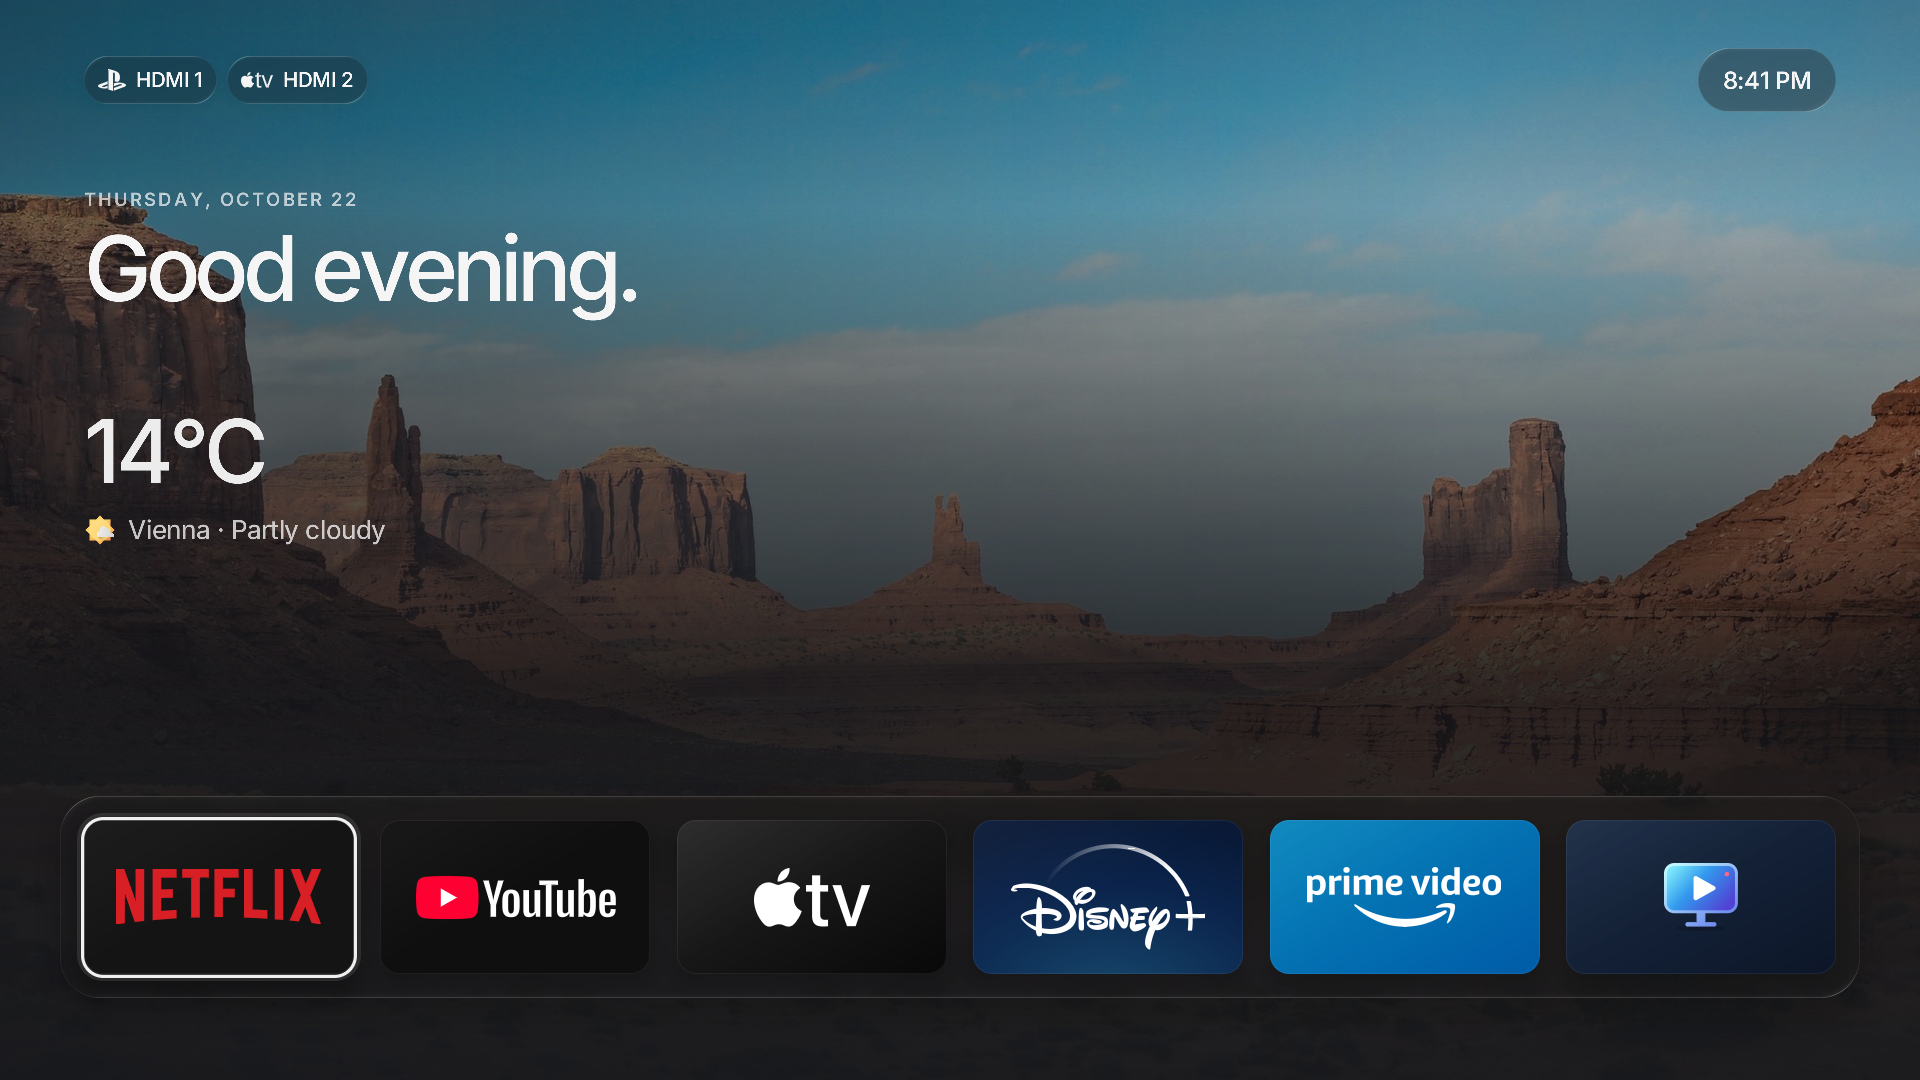
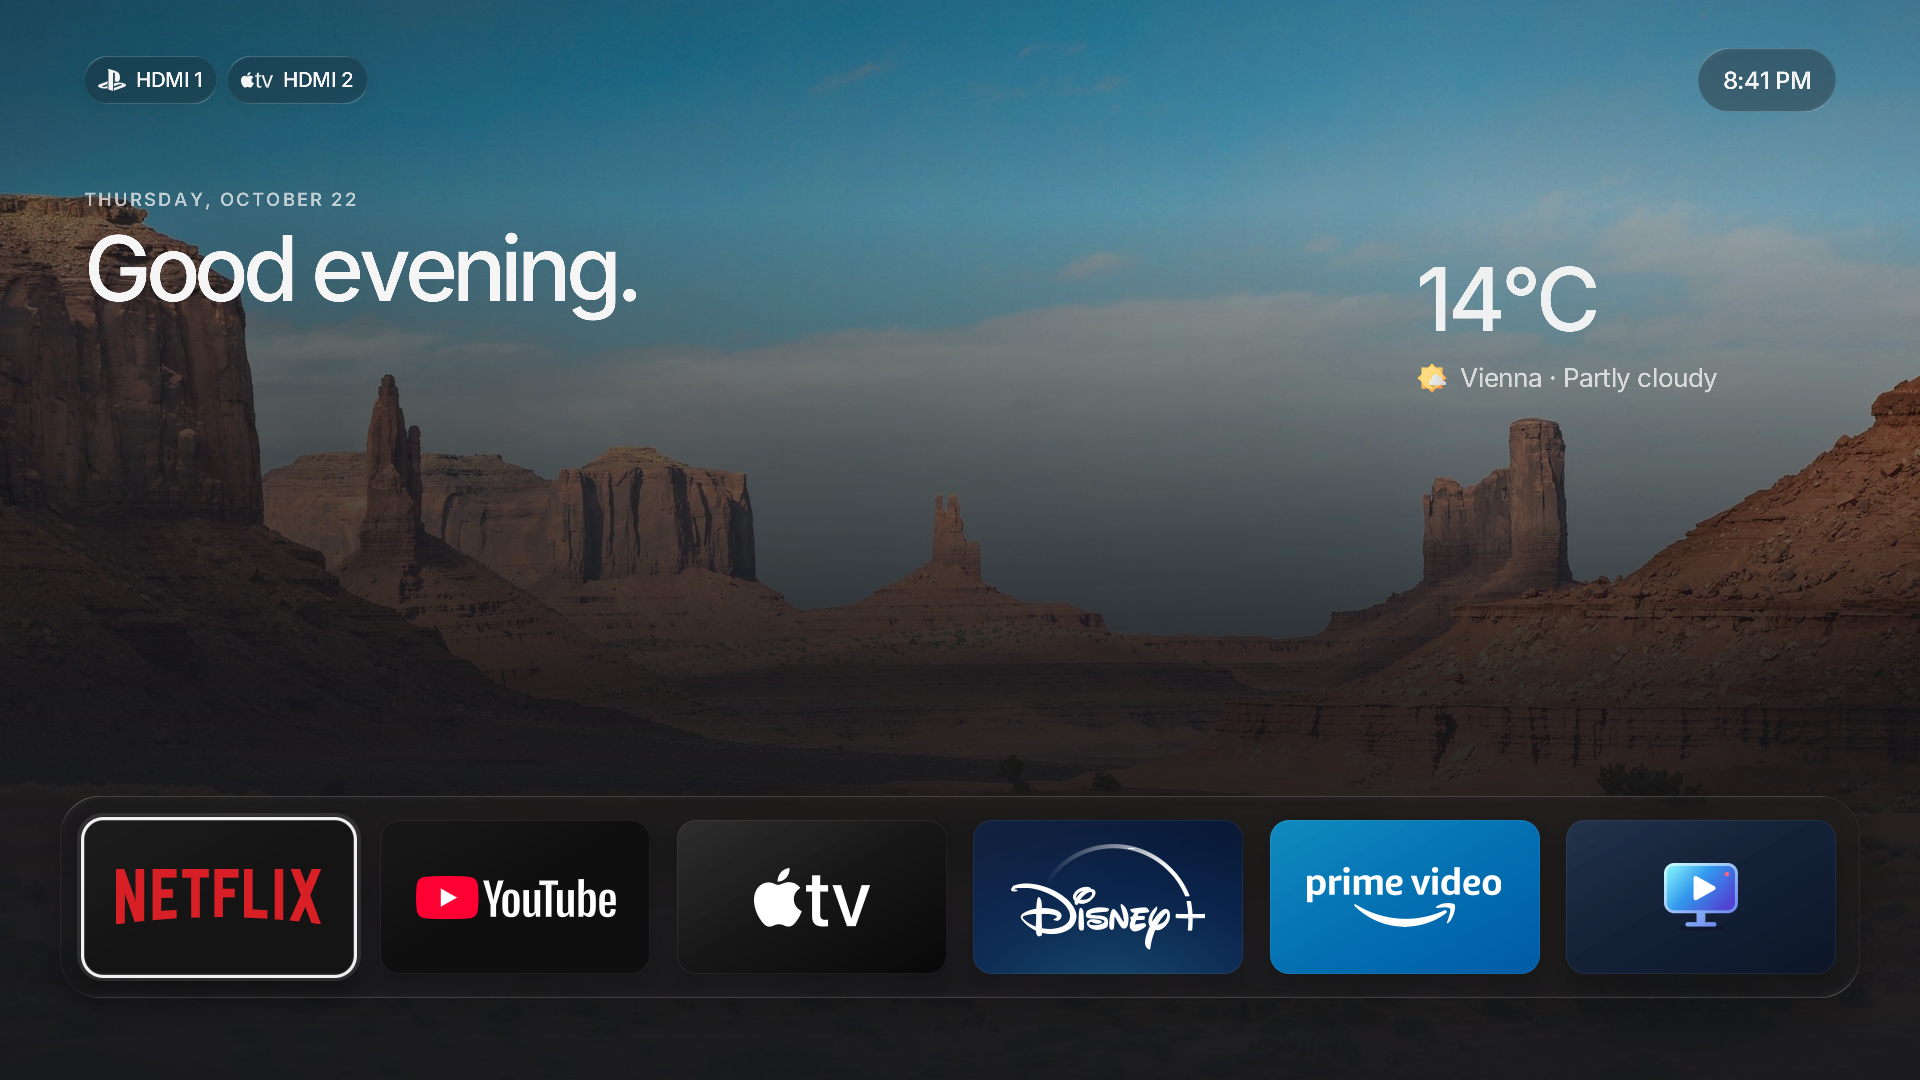
feat(widgets): default greeting left and weather right

Changed region(s): [[0.0312, 0.3667, 0.1875, 0.5194], [0.7188, 0.2444, 0.8438, 0.3056], [0.7188, 0.3361, 0.9062, 0.3667]]

diff --git a/src/glass-home-tests.rs b/src/glass-home-tests.rs
@@ -183,8 +183,8 @@ fn widget_manager_grid_opens_context_menu_from_every_occupied_cell() {
     for (cell, widget) in [
         (0, HomeWidget::Greeting),
         (1, HomeWidget::Greeting),
-        (4, HomeWidget::Weather),
-        (8, HomeWidget::Weather),
+        (3, HomeWidget::Weather),
+        (7, HomeWidget::Weather),
     ] {
         let control = rendered
             .controls
@@ -222,7 +222,7 @@ fn widget_add_is_atomic_cancellable_and_rejects_invalid_placements() {
     let mut state = ready();
     state.open(2);
     state.section = crate::state::WIDGETS_SECTION;
-    state.focus = Target::WidgetCell(4);
+    state.focus = Target::WidgetCell(3);
     state.activate();
     state.focus = Target::RemoveWidget(HomeWidget::Weather);
     assert_eq!(state.activate(), vec![Effect::Save]);
@@ -278,7 +278,7 @@ fn widget_configuration_has_no_visibility_or_position_rows() {
     let mut state = ready();
     state.open(2);
     state.section = crate::state::WIDGETS_SECTION;
-    for (cell, expected) in [(0, Subpage::Greeting), (4, Subpage::Weather)] {
+    for (cell, expected) in [(0, Subpage::Greeting), (3, Subpage::Weather)] {
         state.focus = Target::WidgetCell(cell);
         state.activate();
         state.activate();
@@ -317,22 +317,22 @@ fn widget_position_browsing_cancels_and_valid_selection_saves() {
     state.section = crate::state::WIDGETS_SECTION;
     state.focus = Target::MoveWidget(HomeWidget::Weather);
     state.activate();
-    assert_eq!(state.focus, Target::Choice(4));
-    state.direction(Direction::Right, &scene(&state).controls);
-    assert_eq!(state.focus, Target::Choice(5));
+    assert_eq!(state.focus, Target::Choice(3));
+    state.direction(Direction::Left, &scene(&state).controls);
+    assert_eq!(state.focus, Target::Choice(2));
     assert_eq!(
         state.preferences.weather_position,
-        WidgetPosition { column: 0, row: 1 }
+        WidgetPosition { column: 3, row: 0 }
     );
     state.back();
-    assert_eq!(state.focus, Target::WidgetCell(4));
+    assert_eq!(state.focus, Target::WidgetCell(3));
     state.focus = Target::MoveWidget(HomeWidget::Weather);
     state.activate();
-    state.direction(Direction::Right, &scene(&state).controls);
+    state.direction(Direction::Left, &scene(&state).controls);
     assert_eq!(state.activate(), vec![Effect::Save]);
     assert_eq!(
         state.preferences.weather_position,
-        WidgetPosition { column: 1, row: 1 }
+        WidgetPosition { column: 2, row: 0 }
     );
     let loaded: Preferences =
         serde_json::from_slice(&serde_json::to_vec(&state.preferences).unwrap()).unwrap();
@@ -347,7 +347,7 @@ fn widget_position_picker_blocks_overlaps_and_out_of_bounds_for_remote_and_point
     state.section = crate::state::WIDGETS_SECTION;
     state.focus = Target::MoveWidget(HomeWidget::Greeting);
     state.activate();
-    for cell in [3, 4, 7, 8, 11, 15] {
+    for cell in [2, 3, 6, 7, 11, 15] {
         state.focus = Target::Choice(cell);
         assert!(state.activate().is_empty());
         assert_eq!(
@@ -408,11 +408,11 @@ fn four_by_four_widget_navigation_reaches_last_row_and_column_without_wrapping()
     );
     state.focus = Target::MoveWidget(HomeWidget::Weather);
     state.activate();
-    state.pointer_focus(Target::Choice(3));
+    state.pointer_focus(Target::Choice(4));
     assert_eq!(state.activate(), vec![Effect::Save]);
     assert_eq!(
         state.preferences.weather_position,
-        WidgetPosition { column: 3, row: 0 }
+        WidgetPosition { column: 0, row: 1 }
     );
     assert!(WidgetPosition::from_cell(16).is_none());
 }
@@ -429,7 +429,7 @@ fn widget_positions_default_to_requested_spans_and_sanitize_safely() {
     );
     assert_eq!(
         preferences.weather_position,
-        WidgetPosition { column: 0, row: 1 }
+        WidgetPosition { column: 3, row: 0 }
     );
     assert!(preferences.weather_visible());
     for greeting in 0..crate::model::HOME_GRID_CELLS {
@@ -496,6 +496,19 @@ fn combined_greeting_upgrades_separate_date_defaults_and_preserves_custom_positi
     assert_eq!(
         current.weather_position,
         WidgetPosition { column: 0, row: 2 }
+    );
+    let mut previous_default: Preferences = serde_json::from_str(
+        r#"{"greeting_position":{"column":0,"row":0},"weather_position":{"column":0,"row":1}}"#,
+    )
+    .unwrap();
+    previous_default.sanitize();
+    assert_eq!(
+        previous_default.greeting_position,
+        WidgetPosition { column: 0, row: 0 }
+    );
+    assert_eq!(
+        previous_default.weather_position,
+        WidgetPosition { column: 0, row: 1 }
     );
 }
 

diff --git a/src/tests.rs b/src/tests.rs
@@ -1586,7 +1586,9 @@ fn weather_location_keyboard_back_and_sidebar_routes_restore_focus() {
     assert_eq!(state.focus, Target::WidgetAdd);
     state.direction(Direction::Down, &controls(&state));
     assert_eq!(state.focus, Target::WidgetCell(0));
-    state.direction(Direction::Down, &controls(&state));
+    for _ in 0..3 {
+        state.direction(Direction::Right, &controls(&state));
+    }
     state.activate();
     assert_eq!(
         state.focus,
@@ -1606,7 +1608,7 @@ fn weather_location_keyboard_back_and_sidebar_routes_restore_focus() {
     assert_eq!(state.focus, Target::WeatherLocation);
     assert_eq!(state.subpage, Some(crate::state::Subpage::Weather));
     state.back();
-    assert_eq!(state.focus, Target::WidgetCell(4));
+    assert_eq!(state.focus, Target::WidgetCell(3));
     assert!(state.subpage.is_none());
     state.back();
     assert_eq!(state.focus, Target::Sidebar(crate::state::WIDGETS_SECTION));
@@ -1673,7 +1675,7 @@ fn home_weather_setup_returns_through_the_widgets_weather_parent() {
     assert_eq!(state.focus, Target::WeatherLocation);
     state.back();
     assert!(state.subpage.is_none());
-    assert_eq!(state.focus, Target::WidgetCell(4));
+    assert_eq!(state.focus, Target::WidgetCell(3));
 }
 
 #[test]

diff --git a/src/model.rs b/src/model.rs
@@ -285,11 +285,11 @@ impl HomeWidget {
 
     pub fn default_position(self) -> WidgetPosition {
         WidgetPosition {
-            column: 0,
-            row: match self {
+            column: match self {
                 Self::Greeting => 0,
-                Self::Weather => 1,
+                Self::Weather => 3,
             },
+            row: 0,
         }
     }
 }

diff --git a/.changeset/home-widget-grid.md b/.changeset/home-widget-grid.md
@@ -2,7 +2,7 @@
 'lg-luma': minor
 ---
 
-Add a grid-first Home widget manager with app-style Configure, Move and Remove menus, plus Reset to defaults and Add widget pills above the grid. Greeting combines weekday/date and a time-based greeting in two columns and one row, restoring the original typography; Weather spans one column and two rows. By default Greeting sits on row one and Weather spans rows two/three. Preview fixed-size placements with the remote or pointer and reject overlaps or out-of-bounds positions. Removing frees cells while retaining configuration, and adding only saves after confirming placement. Reset restores default widgets and positions without clearing their settings. Configuration no longer has show/hide widget switches. Inputs moves to its own sidebar section below Apps and is not a widget. The app dock is unchanged; date visibility/format remain inside Greeting settings, without a separate Date widget or configurable name.
+Add a grid-first Home widget manager with app-style Configure, Move and Remove menus, plus Reset to defaults and Add widget pills above the grid. Greeting combines weekday/date and a time-based greeting in two columns and one row, restoring the original typography; Weather spans one column and two rows. By default Greeting sits at the top left and Weather at the top right, spanning the first two rows. Saved custom placements are preserved. Preview fixed-size placements with the remote or pointer and reject overlaps or out-of-bounds positions. Removing frees cells while retaining configuration, and adding only saves after confirming placement. Reset restores default widgets and positions without clearing their settings. Configuration no longer has show/hide widget switches. Inputs moves to its own sidebar section below Apps and is not a widget. The app dock is unchanged; date visibility/format remain inside Greeting settings, without a separate Date widget or configurable name.
 
 Keep the full weather-setup action readable in every language by wrapping long translations inside the fixed-size widget instead of truncating them.
 

diff --git a/readme.md b/readme.md
@@ -32,8 +32,8 @@ https://github.com/user-attachments/assets/5b2c6e78-ec77-41f5-a79a-1fcfbe8e524b
 
 Home widgets use an invisible **4×4 placement grid** above the unchanged favorites dock.
 **Greeting** combines the weekday/date and greeting in **2 columns × 1 row**;
-**Weather** is **1 column × 2 rows**. By default Greeting sits on the first row and
-Weather spans the second/third rows, left-aligned. Empty cells remain transparent.
+**Weather** is **1 column × 2 rows**. By default Greeting sits at the top left and
+Weather at the top right, spanning the first two rows. Empty cells remain transparent.
 Open **Settings → Widgets** to see the Home placement grid. Select a widget for an
 app-style **Configure / Move / Remove** menu. At the top right above the grid, **Reset to defaults** sits to the
 left of **Add widget**, using the same pill controls as Backgrounds. The Add menu only lists

diff --git a/development.md b/development.md
@@ -144,7 +144,7 @@ and the generic disc input icon from the native desktop renderer using seeded lo
 Home uses a 4×4 placement grid in logical 1920×1080 space above the unchanged dock.
 Greeting combines weekday/date and greeting in 2 columns × 1 row; Weather spans 1 column × 2 rows.
 Their anchors persist as `greeting_position` and `weather_position` (`column`, `row`, zero-based).
-Defaults are Greeting (0,0), Weather (0,1). The separate-Date draft's untouched defaults migrate
+Defaults are Greeting (0,0), Weather (3,0). The separate-Date draft's untouched defaults migrate
 to this arrangement only when a legacy `date_position` field is present; it is omitted on save.
 Custom Greeting/Weather anchors are preserved, including new layouts matching that old arrangement.
 Sanitization repairs out-of-bounds anchors and overlaps deterministically.
